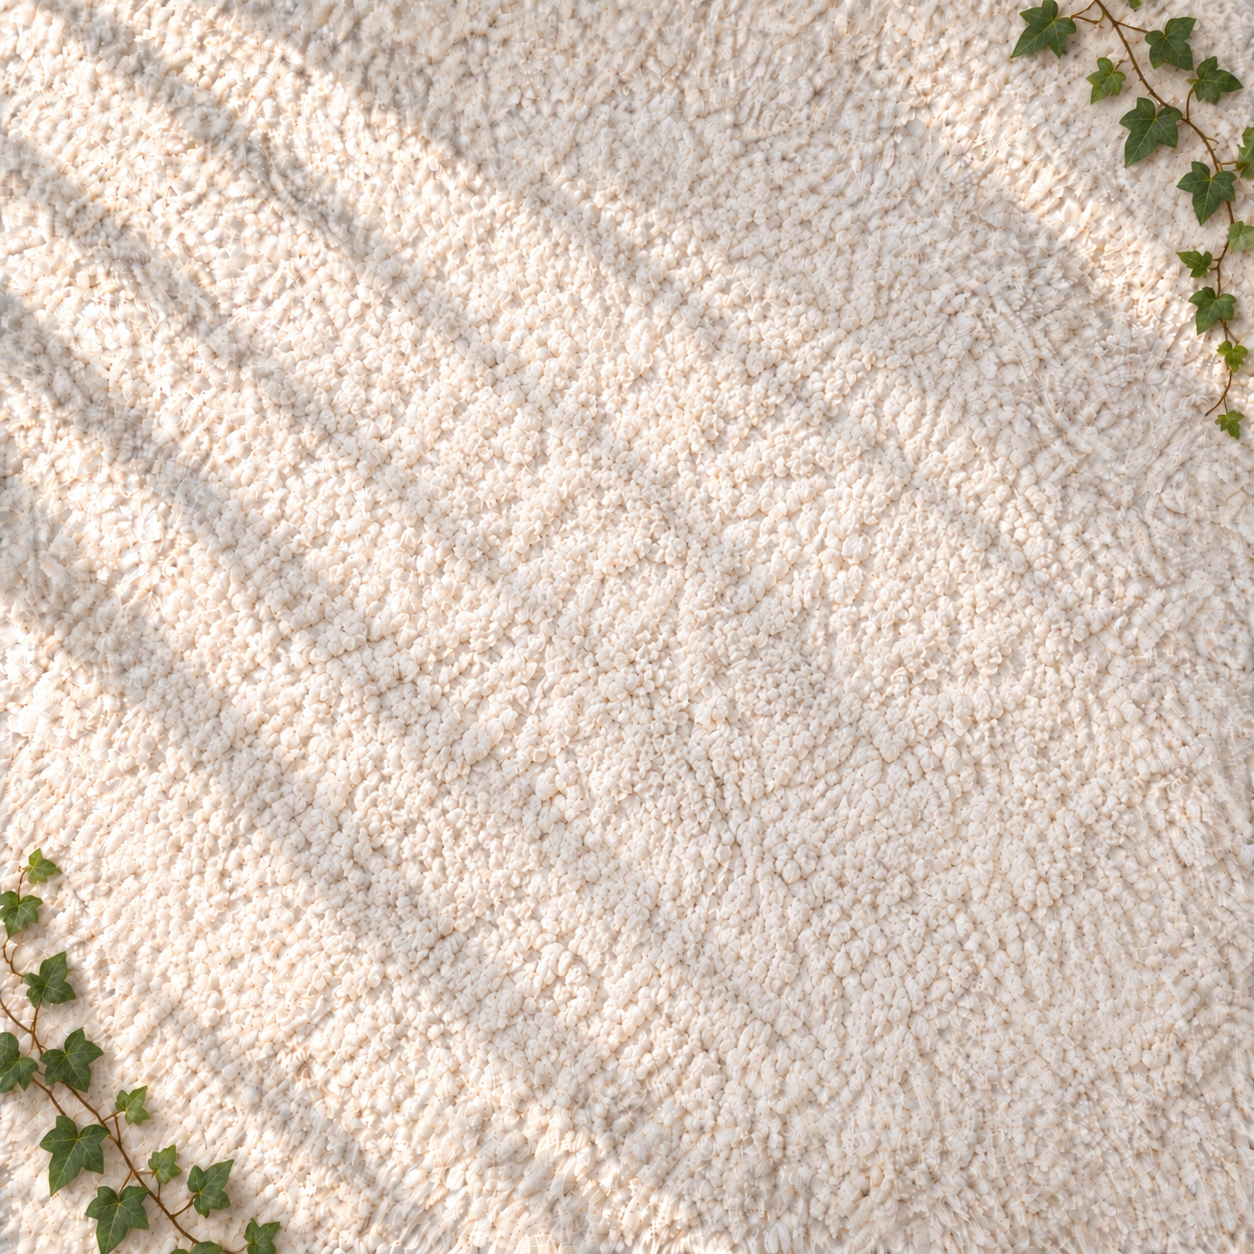
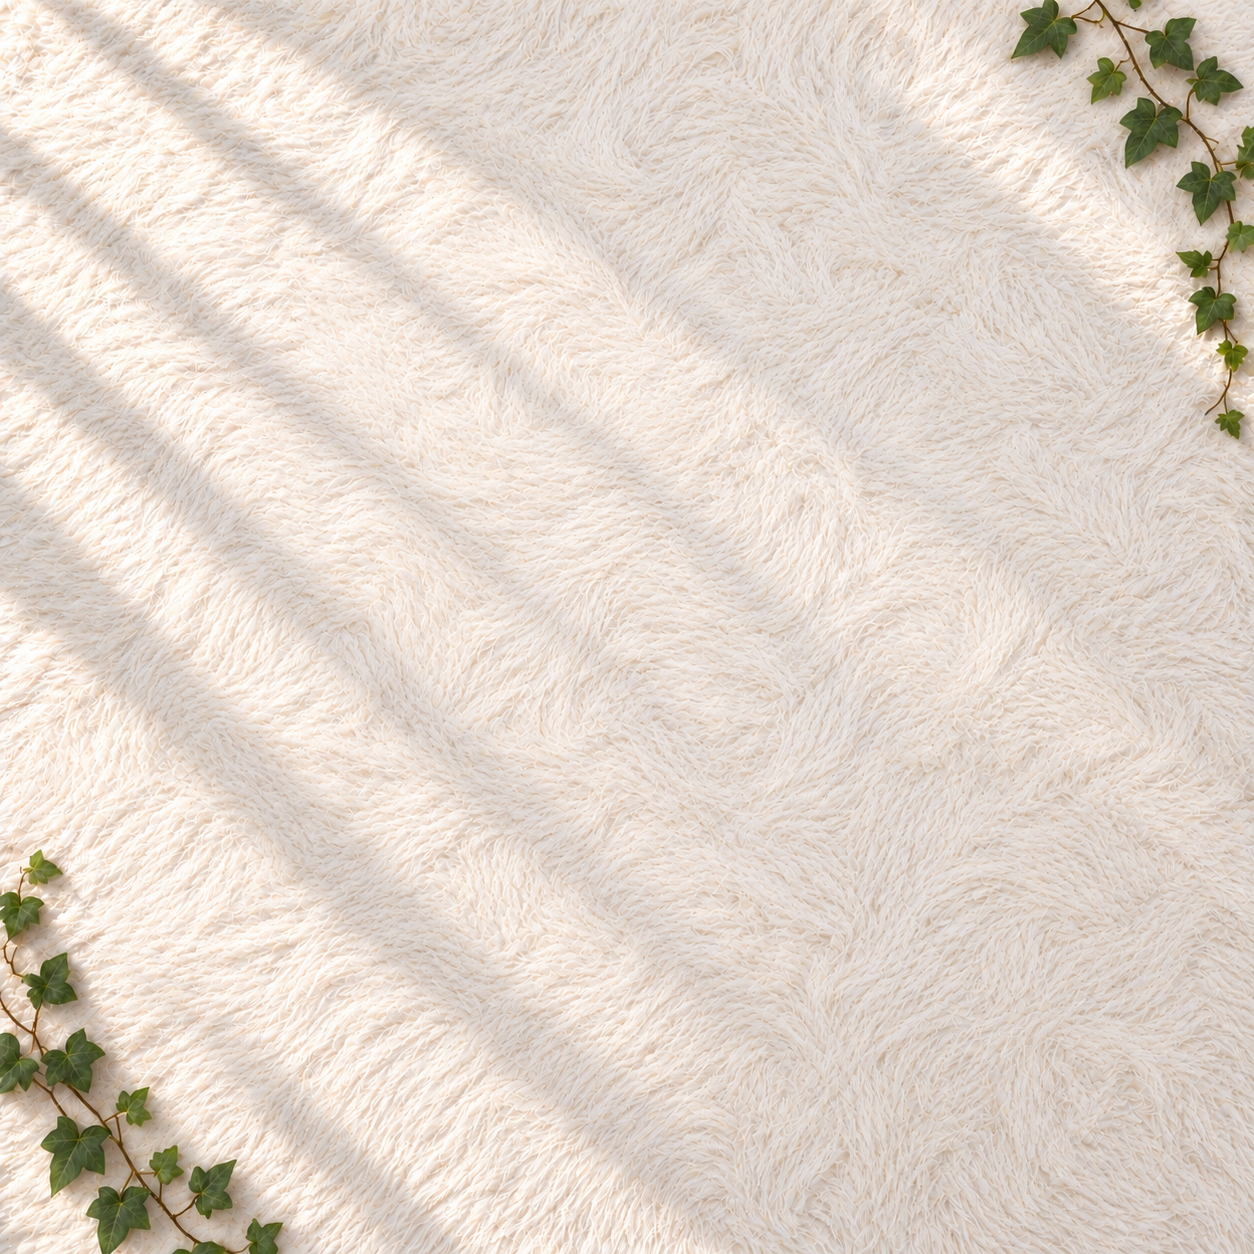
Match ivy template carpet to real fine-pile photo references

diff --git a/index.html b/index.html
@@ -11,8 +11,8 @@
   <link rel="manifest" href="manifest.json">
   <link rel="icon" href="icons/icon-192.png">
   <link rel="apple-touch-icon" href="icons/icon-192.png">
-  <link rel="stylesheet" href="styles.css?v=20261007e">
-  <script src="public-config.js?v=20261007e"></script>
+  <link rel="stylesheet" href="styles.css?v=20261007f">
+  <script src="public-config.js?v=20261007f"></script>
   <script src="vendor/lucide/lucide.min.js?v=1.24.0"></script>
 </head>
 <body>
@@ -59,13 +59,13 @@
           </div>
           <p id="listing-style-status" class="note small unknown">まだ過去出品の文体を取得していません。</p>
         </details>
-      <p class="settings-version" id="settings-version">v20261007e / UI改善・セキュリティ強化</p>
+      <p class="settings-version" id="settings-version">v20261007f / UI改善・セキュリティ強化</p>
     </section>
 
     <!-- メイン画面 -->
     <section id="main-screen" class="screen" hidden>
       <header>
-        <div class="app-heading"><h1>メルカリAI出品</h1><small class="app-version">v20261007e</small></div>
+        <div class="app-heading"><h1>メルカリAI出品</h1><small class="app-version">v20261007f</small></div>
         <div class="header-actions">
           <button id="reset-btn" class="icon-btn" title="入力内容をリセット" aria-label="入力内容をリセット"><i data-lucide="trash-2" aria-hidden="true"></i></button>
           <button id="settings-btn" class="icon-btn" title="設定" aria-label="設定"><i data-lucide="settings" aria-hidden="true"></i></button>
@@ -127,7 +127,7 @@
         <div id="photo-preview" class="preview-grid"></div>
         <p id="photo-auto-note" class="note small" hidden>選んだ補正で新しい写真を自動調整。「明るさ」から確認・変更できます。</p>
         <button id="background-template-open" class="background-template-open" type="button" disabled>
-          <img src="assets/backgrounds/white-carpet-ivy.png" alt="白いカーペット、自然光とアイビーの背景" width="72" height="72">
+          <img src="assets/backgrounds/white-carpet-ivy.png?v=20261007f" alt="白いカーペット、自然光とアイビーの背景" width="72" height="72">
           <span><strong>背景テンプレート</strong><small>白カーペット・自然光・アイビー</small></span>
           <span aria-hidden="true">›</span>
         </button>
@@ -380,7 +380,7 @@
     <section id="compose-modal" class="modal" hidden>
       <div class="modal-content compose">
         <header class="modal-header">
-          <h2 id="compose-title">✂ 画像合成 <span class="ver-tag">v20261007e</span></h2>
+          <h2 id="compose-title">✂ 画像合成 <span class="ver-tag">v20261007f</span></h2>
           <button id="compose-close" class="icon-btn" title="閉じる" aria-label="画像編集を閉じる"><i data-lucide="x" aria-hidden="true"></i></button>
         </header>
         <p id="compose-step-label" class="compose-step-label"></p>
@@ -391,11 +391,11 @@
 
   </div>
 
-  <script src="catalog-data.js?v=20261007e"></script>
-  <script src="photo-adjust.js?v=20261007e"></script>
-  <script src="background-template.js?v=20261007e"></script>
-  <script src="app.js?v=20261007e"></script>
-  <script src="review.js?v=20261007e"></script>
-  <script src="bootstrap.js?v=20261007e"></script>
+  <script src="catalog-data.js?v=20261007f"></script>
+  <script src="photo-adjust.js?v=20261007f"></script>
+  <script src="background-template.js?v=20261007f"></script>
+  <script src="app.js?v=20261007f"></script>
+  <script src="review.js?v=20261007f"></script>
+  <script src="bootstrap.js?v=20261007f"></script>
 </body>
 </html>

diff --git a/sw.js b/sw.js
@@ -1,26 +1,26 @@
 const CACHE_PREFIX = 'mercari-description-';
-const CACHE_NAME = 'mercari-description-v20261007e';
+const CACHE_NAME = 'mercari-description-v20261007f';
 const ASSETS = [
   './',
   './index.html',
   './pair.html',
-  './styles.css?v=20261007e',
-  './public-config.js?v=20261007e',
-  './catalog-data.js?v=20261007e',
-  './photo-adjust.js?v=20261007e',
-  './background-template.js?v=20261007e',
-  './background-worker.js?v=20261007e',
-  './assets/backgrounds/white-carpet-ivy.png',
+  './styles.css?v=20261007f',
+  './public-config.js?v=20261007f',
+  './catalog-data.js?v=20261007f',
+  './photo-adjust.js?v=20261007f',
+  './background-template.js?v=20261007f',
+  './background-worker.js?v=20261007f',
+  './assets/backgrounds/white-carpet-ivy.png?v=20261007f',
   './vendor/onnxruntime/ort.wasm.min.js',
   './vendor/onnxruntime/ort-wasm-simd-threaded.mjs',
   './vendor/onnxruntime/ort-wasm-simd-threaded.wasm',
   './vendor/onnxruntime/LICENSE',
   './models/u2netp.onnx',
   './models/LICENSE',
-  './app.js?v=20261007e',
-  './review.js?v=20261007e',
-  './bootstrap.js?v=20261007e',
-  './pair.js?v=20261007e',
+  './app.js?v=20261007f',
+  './review.js?v=20261007f',
+  './bootstrap.js?v=20261007f',
+  './pair.js?v=20261007f',
   './manifest.json',
   './icons/icon-192.png',
   './icons/icon-512.png',

diff --git a/pair.html b/pair.html
@@ -9,8 +9,8 @@
   <meta http-equiv="Content-Security-Policy" content="default-src 'self'; script-src 'self'; style-src 'self'; img-src 'self' data:; connect-src 'self' https://script.google.com https://script.googleusercontent.com https://*.googleusercontent.com https://*.trycloudflare.com; font-src 'self' data:; object-src 'none'; base-uri 'none'; form-action 'none'; frame-src 'none'">
   <title>端末を接続</title>
   <link rel="icon" href="icons/icon-192.png">
-  <link rel="stylesheet" href="styles.css?v=20261007e">
-  <script src="public-config.js?v=20261007e"></script>
+  <link rel="stylesheet" href="styles.css?v=20261007f">
+  <script src="public-config.js?v=20261007f"></script>
 </head>
 <body>
   <main id="app">
@@ -21,6 +21,6 @@
       <a id="pair-open" class="btn primary large" href="./" hidden>メルカリAI出品を開く</a>
     </section>
   </main>
-  <script src="pair.js?v=20261007e"></script>
+  <script src="pair.js?v=20261007f"></script>
 </body>
 </html>

diff --git a/app.js b/app.js
@@ -1607,7 +1607,7 @@ async function prepareBackgroundTemplate_() {
     const source = hydrateTemporaryDraftPhoto_(photo);
     const [image, background] = await Promise.all([
       loadImage(`data:${source.mediaType};base64,${source.base64HQ}`),
-      loadImage('assets/backgrounds/white-carpet-ivy.png'),
+      loadImage('assets/backgrounds/white-carpet-ivy.png?v=20261007f'),
     ]);
     if (backgroundTemplateState !== state || state.abort.signal.aborted) return;
     const mask = await MercariBackgroundTemplate.cutout(image, message => {

diff --git a/background-template.js b/background-template.js
@@ -62,7 +62,7 @@
   }
   function cutout(image, onProgress, signal) {
     return new Promise((resolve, reject) => {
-      const worker = new Worker(new URL(`background-worker.js?v=${root.MercariPublicConfig?.version?.slice(1) || '20261007e'}`, scriptRoot).href);
+      const worker = new Worker(new URL(`background-worker.js?v=${root.MercariPublicConfig?.version?.slice(1) || '20261007f'}`, scriptRoot).href);
       let settled = false;
       const finish = (error, value) => {
         if (settled) return;

diff --git a/bootstrap.js b/bootstrap.js
@@ -3,7 +3,7 @@
 (() => {
   if (window.lucide) window.lucide.createIcons();
   if (!('serviceWorker' in navigator)) return;
-  const version = globalThis.MercariPublicConfig?.version || 'v20261007e';
+  const version = globalThis.MercariPublicConfig?.version || 'v20261007f';
   function releaseNumber(value) {
     const match = /^v(\d{8})([a-z]+)$/.exec(String(value || ''));
     return match ? [Number(match[1]), [...match[2]].reduce((n, c) => n * 26 + c.charCodeAt(0) - 96, 0)] : null;

diff --git a/public-config.js b/public-config.js
@@ -4,7 +4,7 @@
 // 任意URLへ端末情報を送らないため、利用可能なGASをここで1つに固定します。
 (() => {
   const config = Object.freeze({
-    version: 'v20261007e',
+    version: 'v20261007f',
     gasUrl: 'https://script.google.com/macros/s/AKfycbwYfwDG7Kqplk2oVeX7kF_gsAKTlK087ToE4LGp5R7PglTFMARP2lrA6ZV9m3MD0LEs/exec',
   });
   Object.defineProperty(globalThis, 'MercariPublicConfig', {

diff --git a/README.md b/README.md
@@ -1,3 +1,9 @@
+## 2026-10-07 背景のカーペットを実写真の毛足へ修正（v20261007f）
+
+- 背景テンプレートの粒状・厚いアイボリーの質感を、実写真に合わせた細い毛が寝て流れる白いシャギーカーペットへ変更。左上の柔らかな光・左下と右上のアイビー配置を維持します。背景のみを生成し、実商品の画像や画面を公開資産へ含めません。
+- 背景画像のURLにも版数を付け、画面表示・スクリプトURL・Service Workerキャッシュを同時にfへ更新。古い背景が残ることを防ぎ、入力中の強制更新は行いません。
+- 服の切り抜き・輪郭修正・写真の先頭追加・元写真保持・保存経路は継続します。
+
 ## 2026-10-07 白カーペット・自然光・アイビー背景テンプレート（v20261007e）
 
 - 写真欄の「背景テンプレート」から、承認済みの白カーペット・左上の柔らかな自然光・左下と右上のアイビー背景へ平置き写真を合成できます。服の大きさを調整し、確認後「1枚目に追加」で先頭へ追加します。元写真は残します。

diff --git a/project_tools.md b/project_tools.md
@@ -1,3 +1,9 @@
+## 2026-10-07 背景のカーペットを実写真の毛足へ修正（v20261007f）
+
+- 背景テンプレートの粒状・厚いアイボリーの質感を、実写真に合わせた細い毛が寝て流れる白いシャギーカーペットへ変更。左上の柔らかな光・左下と右上のアイビー配置を維持します。背景のみを生成し、実商品の画像や画面を公開資産へ含めません。
+- 背景画像のURLにも版数を付け、画面表示・スクリプトURL・Service Workerキャッシュを同時にfへ更新。古い背景が残ることを防ぎ、入力中の強制更新は行いません。
+- 服の切り抜き・輪郭修正・写真の先頭追加・元写真保持・保存経路は継続します。
+
 ## 2026-10-07 白カーペット・自然光・アイビー背景テンプレート（v20261007e）
 
 - 写真欄の「背景テンプレート」から、承認済みの白カーペット・左上の柔らかな自然光・左下と右上のアイビー背景へ平置き写真を合成できます。服の大きさを調整し、確認後「1枚目に追加」で先頭へ追加します。元写真は残します。
